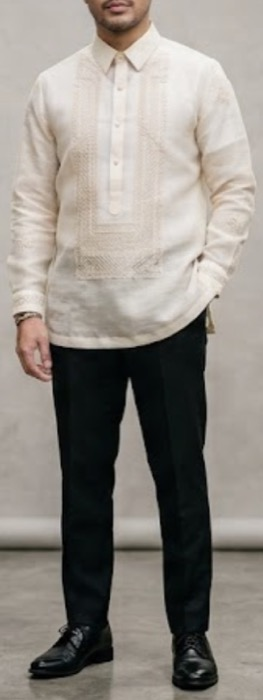
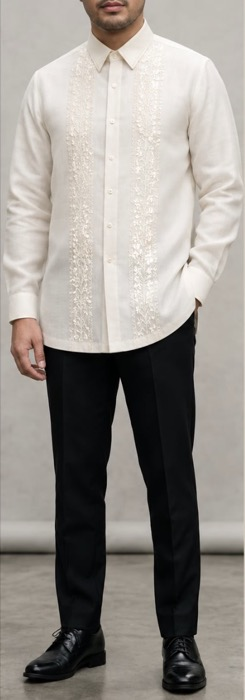
Update groomsman name and swap in final groomsmen barong photo
- Marjon Colorado -> Jayvee Fil Guzman
- dresscode-male.jpg replaced with 'Male Dress Code Barong (FINAL FINAL)'

diff --git a/index.html b/index.html
@@ -673,7 +673,7 @@
                 <li>Charles Evangelista</li>
                 <li>Jonathan Manzan</li>
                 <li>Wilson Rifol</li>
-                <li>Marjon Colorado</li>
+                <li>Jayvee Fil Guzman</li>
                 <li>Juan Karlo Carabbacan</li>
               </ul>
             </div>
